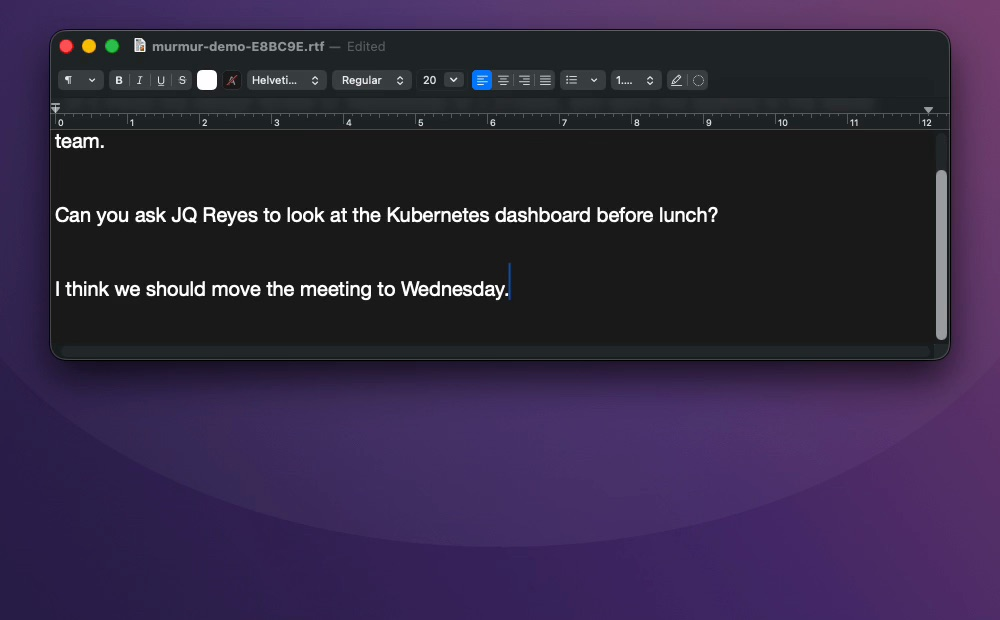
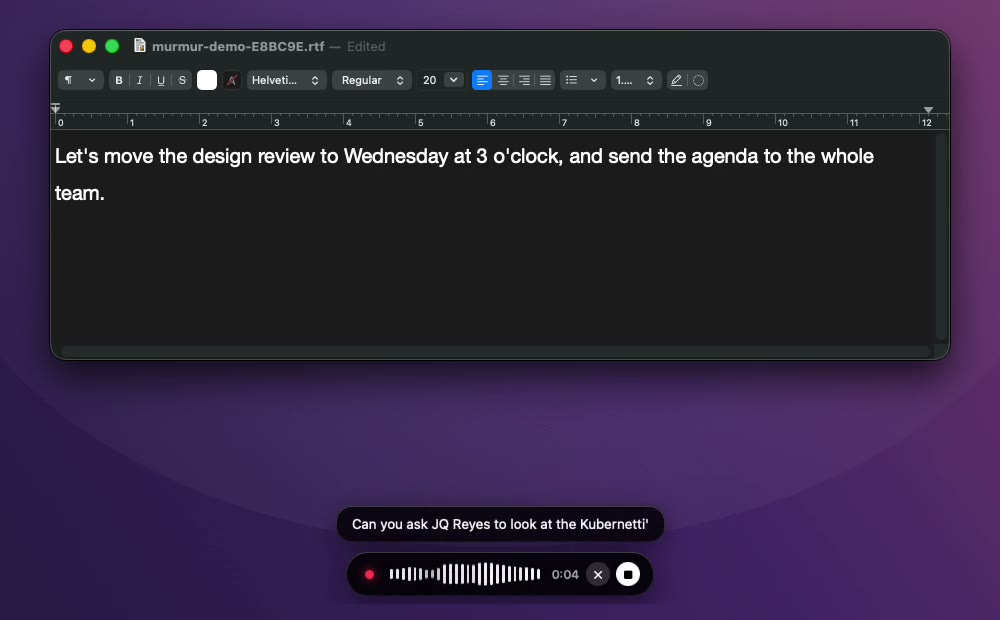
Site: rebalance visual weight, refresh gallery and copy
- Section headings scaled down (36px/700) so the hero leads; one card style
  (shadowed, 18px radius) for features, steps and HUD cards; HUD cards lose
  the dark outline; softer hero stage shadow, slightly smaller icon.
- Poster frame from mid-demo instead of an empty document.
- Gallery: current, mostly light screens (open models, custom prompt,
  hands-free shortcut, vocabulary).
- Copy: Parakeet, Voxtral, the Lab, hands-free shortcut.

diff --git a/docs/index.html b/docs/index.html
@@ -4,7 +4,7 @@
 <meta charset="utf-8">
 <meta name="viewport" content="width=device-width, initial-scale=1">
 <title>Murmur — dictation for macOS</title>
-<meta name="description" content="Hold a key, speak, release. Murmur types polished text wherever your cursor is. Native macOS, on-device or OpenRouter models.">
+<meta name="description" content="Hold a key, speak, release. Murmur types polished text wherever your cursor is. Native macOS with on-device Parakeet, Apple or Voxtral models, or any model via OpenRouter.">
 <meta property="og:title" content="Murmur — dictation for macOS">
 <meta property="og:description" content="Hold a key, speak, release. Polished text appears wherever you type.">
 <meta property="og:image" content="media/demo-poster.jpg">
@@ -39,7 +39,7 @@ nav .links a:hover { color: var(--ink); }
 /* Hero */
 .hero { position: relative; padding: 88px 0 40px; text-align: center; overflow: hidden; }
 .hero::before { content: ""; position: absolute; inset: -40% -10% auto; height: 620px; background: var(--brand); opacity: .14; filter: blur(90px); border-radius: 50%; z-index: -1; }
-.hero .icon { width: 96px; height: 96px; filter: drop-shadow(0 18px 30px rgba(91,76,249,.35)); }
+.hero .icon { width: 84px; height: 84px; filter: drop-shadow(0 14px 24px rgba(91,76,249,.28)); }
 h1 { font-size: clamp(44px, 7vw, 80px); line-height: 1.02; letter-spacing: -.035em; margin: 22px 0 16px; font-weight: 800; }
 h1 .grad { background: var(--brand); -webkit-background-clip: text; background-clip: text; color: transparent; }
 .lede { font-size: clamp(18px, 2.2vw, 22px); color: var(--ink2); max-width: 640px; margin: 0 auto 30px; }
@@ -52,38 +52,38 @@ h1 .grad { background: var(--brand); -webkit-background-clip: text; background-c
 kbd { font: 600 .92em -apple-system, system-ui; padding: 2px 8px; border-radius: 6px; background: var(--card); border: 1px solid var(--line); box-shadow: 0 1px 0 var(--line); }
 
 /* Video */
-.stage { margin: 48px auto 0; max-width: 1000px; border-radius: 18px; overflow: hidden; box-shadow: 0 30px 80px rgba(40,20,110,.35), 0 0 0 1px var(--line); position: relative; background: #1b1530; }
+.stage { margin: 56px auto 0; max-width: 920px; border-radius: 16px; overflow: hidden; box-shadow: 0 24px 64px rgba(40,20,110,.20), 0 0 0 1px var(--line); position: relative; background: #1b1530; }
 .stage video { display: block; width: 100%; height: auto; }
 .sound { position: absolute; right: 14px; bottom: 14px; border: 0; cursor: pointer; padding: 8px 14px; border-radius: 999px; font: 600 13px -apple-system, system-ui;
          color: #fff; background: rgba(0,0,0,.55); backdrop-filter: blur(10px); }
 
 /* Sections */
-section { padding: 96px 0 0; }
+section { padding: 104px 0 0; }
 .eyebrow { font-size: 13px; font-weight: 700; letter-spacing: .08em; text-transform: uppercase; background: var(--brand); -webkit-background-clip: text; background-clip: text; color: transparent; }
-h2 { font-size: clamp(30px, 4vw, 44px); letter-spacing: -.025em; line-height: 1.1; margin: 8px 0 14px; }
-.sub { color: var(--ink2); font-size: 18px; max-width: 660px; margin: 0 0 36px; }
+h2 { font-size: clamp(26px, 3vw, 36px); font-weight: 700; letter-spacing: -.02em; line-height: 1.15; margin: 8px 0 12px; }
+.sub { color: var(--ink2); font-size: 17px; max-width: 640px; margin: 0 0 32px; }
 
 .grid { display: grid; grid-template-columns: repeat(auto-fill, minmax(250px, 1fr)); gap: 16px; }
 .card { background: var(--card); border: 1px solid var(--line); border-radius: 18px; padding: 22px; box-shadow: var(--shadow); }
-.card .ic { width: 38px; height: 38px; border-radius: 10px; display: grid; place-items: center; color: #fff; font-size: 18px; margin-bottom: 14px; }
-.card h3 { margin: 0 0 6px; font-size: 17px; letter-spacing: -.01em; }
-.card p { margin: 0; color: var(--ink2); font-size: 14.5px; }
+.card .ic { width: 36px; height: 36px; border-radius: 10px; display: grid; place-items: center; color: #fff; font-size: 18px; margin-bottom: 14px; }
+.card h3 { margin: 0 0 6px; font-size: 16.5px; font-weight: 650; letter-spacing: -.01em; }
+.card p { margin: 0; color: var(--ink2); font-size: 15px; }
 
 /* Pipeline */
 .pipe { display: flex; align-items: stretch; gap: 10px; flex-wrap: wrap; }
-.step { flex: 1 1 160px; background: var(--card); border: 1px solid var(--line); border-radius: 16px; padding: 18px; position: relative; }
-.step b { display: block; font-size: 15px; margin-bottom: 4px; }
-.step span { color: var(--ink2); font-size: 13.5px; }
-.step .n { font: 700 12px -apple-system, system-ui; color: var(--violet); margin-bottom: 8px; display: block; }
+.step { flex: 1 1 160px; background: var(--card); border: 1px solid var(--line); border-radius: 18px; padding: 20px; position: relative; box-shadow: var(--shadow); }
+.step b { display: block; font-size: 16px; font-weight: 650; margin-bottom: 4px; }
+.step span { color: var(--ink2); font-size: 14.5px; }
+.step .n { font: 700 13px -apple-system, system-ui; color: var(--violet); margin-bottom: 10px; display: block; letter-spacing: .04em; }
 
 /* HUD strip */
 .huds { display: grid; grid-template-columns: repeat(auto-fit, minmax(240px, 1fr)); gap: 14px; }
-.huds figure { margin: 0; border-radius: 16px; overflow: hidden; border: 1px solid var(--line); background: #2a1f45; }
+.huds figure { margin: 0; border-radius: 18px; overflow: hidden; border: 1px solid var(--line); background: var(--card); box-shadow: var(--shadow); }
 .huds img { display: block; width: 100%; height: 150px; object-fit: cover; object-position: center bottom; }
-figcaption { font-size: 13px; color: var(--ink2); padding: 10px 14px; background: var(--card); }
+figcaption { font-size: 14px; color: var(--ink2); padding: 12px 16px; background: var(--card); }
 
 /* Gallery */
-.shots { display: grid; grid-template-columns: repeat(2, 1fr); gap: 22px; }
+.shots { display: grid; grid-template-columns: repeat(2, 1fr); gap: 28px 24px; }
 .shots figure { margin: 0; }
 .shots img { width: 100%; border-radius: 14px; box-shadow: var(--shadow); border: 1px solid var(--line); display: block; }
 .shots figcaption { background: none; padding: 10px 2px 0; }
@@ -138,13 +138,13 @@ footer { padding: 90px 0 50px; color: var(--ink3); font-size: 13px; text-align: 
     <h2>Everything dictation should have been.</h2>
     <p class="sub">A native Mac app with a Rust core, built to be fast, private by default, and pleasant to look at.</p>
     <div class="grid">
-      <div class="card"><div class="ic" style="background:#5b4cf9"><svg width="20" height="20" viewBox="0 0 24 24" fill="none" stroke="currentColor" stroke-width="2" stroke-linecap="round" stroke-linejoin="round"><rect x="2" y="6" width="20" height="12" rx="2"/><path d="M6 10h.01M10 10h.01M14 10h.01M18 10h.01M7 14h10"/></svg></div><h3>One key, anywhere</h3><p>Hold fn, right ⌥ or any custom shortcut to talk. Tap once for hands-free, esc to cancel.</p></div>
-      <div class="card"><div class="ic" style="background:#2f7cf6"><svg width="20" height="20" viewBox="0 0 24 24" fill="none" stroke="currentColor" stroke-width="2" stroke-linecap="round" stroke-linejoin="round"><rect x="4" y="11" width="16" height="10" rx="2"/><path d="M8 11V7a4 4 0 0 1 8 0v4"/></svg></div><h3>On-device by default</h3><p>Apple's SpeechAnalyzer transcribes locally with a live preview, in about a tenth of a second after you let go.</p></div>
-      <div class="card"><div class="ic" style="background:#0ea5a5"><svg width="20" height="20" viewBox="0 0 24 24" fill="none" stroke="currentColor" stroke-width="2" stroke-linecap="round" stroke-linejoin="round"><circle cx="12" cy="12" r="9"/><path d="M3 12h18M12 3a14 14 0 0 1 0 18M12 3a14 14 0 0 0 0 18"/></svg></div><h3>Or any model you like</h3><p>Gemini and other audio models via OpenRouter, or your own Whisper-compatible server.</p></div>
-      <div class="card"><div class="ic" style="background:#b951ed"><svg width="20" height="20" viewBox="0 0 24 24" fill="none" stroke="currentColor" stroke-width="2" stroke-linecap="round" stroke-linejoin="round"><path d="M12 3l1.8 5.2L19 10l-5.2 1.8L12 17l-1.8-5.2L5 10l5.2-1.8z"/><path d="M19 15l.8 2.2L22 18l-2.2.8L19 21l-.8-2.2L16 18l2.2-.8z"/></svg></div><h3>Polish pass</h3><p>An LLM removes ums, applies "no wait, I mean…" corrections and fixes mishearings. Apple Intelligence, OpenRouter, or Ollama.</p></div>
+      <div class="card"><div class="ic" style="background:#5b4cf9"><svg width="20" height="20" viewBox="0 0 24 24" fill="none" stroke="currentColor" stroke-width="2" stroke-linecap="round" stroke-linejoin="round"><rect x="2" y="6" width="20" height="12" rx="2"/><path d="M6 10h.01M10 10h.01M14 10h.01M18 10h.01M7 14h10"/></svg></div><h3>One key, anywhere</h3><p>Hold fn, right ⌥ or any shortcut to talk. A second shortcut for hands-free; esc cancels.</p></div>
+      <div class="card"><div class="ic" style="background:#2f7cf6"><svg width="20" height="20" viewBox="0 0 24 24" fill="none" stroke="currentColor" stroke-width="2" stroke-linecap="round" stroke-linejoin="round"><rect x="4" y="11" width="16" height="10" rx="2"/><path d="M8 11V7a4 4 0 0 1 8 0v4"/></svg></div><h3>On-device by default</h3><p>NVIDIA Parakeet on the Neural Engine, or Apple's speech models. Text about a tenth of a second after you let go.</p></div>
+      <div class="card"><div class="ic" style="background:#0ea5a5"><svg width="20" height="20" viewBox="0 0 24 24" fill="none" stroke="currentColor" stroke-width="2" stroke-linecap="round" stroke-linejoin="round"><circle cx="12" cy="12" r="9"/><path d="M3 12h18M12 3a14 14 0 0 1 0 18M12 3a14 14 0 0 0 0 18"/></svg></div><h3>Or any model you like</h3><p>Mistral's Voxtral via MLX, audio models through OpenRouter, or your own Whisper-compatible server.</p></div>
+      <div class="card"><div class="ic" style="background:#b951ed"><svg width="20" height="20" viewBox="0 0 24 24" fill="none" stroke="currentColor" stroke-width="2" stroke-linecap="round" stroke-linejoin="round"><path d="M12 3l1.8 5.2L19 10l-5.2 1.8L12 17l-1.8-5.2L5 10l5.2-1.8z"/><path d="M19 15l.8 2.2L22 18l-2.2.8L19 21l-.8-2.2L16 18l2.2-.8z"/></svg></div><h3>Polish pass</h3><p>An LLM removes ums, applies "no wait, I mean…" corrections and fixes mishearings. Apple Intelligence, OpenRouter or Ollama, with your own prompt.</p></div>
       <div class="card"><div class="ic" style="background:#f59e0b"><svg width="20" height="20" viewBox="0 0 24 24" fill="none" stroke="currentColor" stroke-width="2" stroke-linecap="round" stroke-linejoin="round"><path d="M4 5a2 2 0 0 1 2-2h12v16H6a2 2 0 0 0-2 2z"/><path d="M4 19V5M8 7h6"/></svg></div><h3>Custom vocabulary</h3><p>Names, jargon and acronyms that steer the recognizer, go into every prompt, and correct known mishearings automatically.</p></div>
       <div class="card"><div class="ic" style="background:#ef4444"><svg width="20" height="20" viewBox="0 0 24 24" fill="none" stroke="currentColor" stroke-width="2" stroke-linecap="round" stroke-linejoin="round"><rect x="9" y="3" width="6" height="11" rx="3"/><path d="M5 11a7 7 0 0 0 14 0M12 18v3"/></svg></div><h3>Every mic, in order</h3><p>Rank your microphones. If one disconnects or goes silent mid-sentence, Murmur switches to the next one.</p></div>
-      <div class="card"><div class="ic" style="background:#14b8a6"><svg width="20" height="20" viewBox="0 0 24 24" fill="none" stroke="currentColor" stroke-width="2" stroke-linecap="round" stroke-linejoin="round"><circle cx="12" cy="12" r="9"/><path d="M12 7v5l3 2"/></svg></div><h3>History you control</h3><p>Keep audio and transcripts for a day, a year or not at all. Replay, copy or re-transcribe any of them.</p></div>
+      <div class="card"><div class="ic" style="background:#14b8a6"><svg width="20" height="20" viewBox="0 0 24 24" fill="none" stroke="currentColor" stroke-width="2" stroke-linecap="round" stroke-linejoin="round"><circle cx="12" cy="12" r="9"/><path d="M12 7v5l3 2"/></svg></div><h3>History and the Lab</h3><p>Keep recordings as long as you like, then replay them through other models and prompts to find your fastest good setup.</p></div>
       <div class="card"><div class="ic" style="background:#64748b"><svg width="20" height="20" viewBox="0 0 24 24" fill="none" stroke="currentColor" stroke-width="2" stroke-linecap="round" stroke-linejoin="round"><path d="M21 8l-9-5-9 5 9 5 9-5z"/><path d="M3 8v8l9 5 9-5V8M12 13v8"/></svg></div><h3>Built for teams</h3><p>Signed DMG and PKG installers, plus an MDM profile that pre-approves Accessibility.</p></div>
     </div>
   </div>
@@ -187,10 +187,10 @@ footer { padding: 90px 0 50px; color: var(--ink3); font-size: 13px; text-align: 
     <div class="shots">
       <figure><img src="media/home-light.png" alt="Home" loading="lazy"><figcaption>Home: your shortcut, stats and recent dictations</figcaption></figure>
       <figure><img src="media/home-dark.png" alt="Home in dark mode" loading="lazy"><figcaption>…and the same in dark mode</figcaption></figure>
-      <figure><img src="media/transcription.png" alt="Transcription settings" loading="lazy"><figcaption>Choose on-device, OpenRouter or your own server</figcaption></figure>
-      <figure><img src="media/cleanup.png" alt="Cleanup settings" loading="lazy"><figcaption>Cleanup with a built-in playground</figcaption></figure>
-      <figure><img src="media/vocabulary.png" alt="Vocabulary" loading="lazy"><figcaption>Vocabulary with "often heard as" variants</figcaption></figure>
-      <figure><img src="media/history.png" alt="History" loading="lazy"><figcaption>History with separate audio and text retention</figcaption></figure>
+      <figure><img src="media/open-models.png" alt="Open models" loading="lazy"><figcaption>Open models, downloaded on demand and run on your Mac</figcaption></figure>
+      <figure><img src="media/custom-prompt.png" alt="Custom cleanup prompt" loading="lazy"><figcaption>Write your own cleanup prompt, with placeholders</figcaption></figure>
+      <figure><img src="media/shortcut.png" alt="Shortcut settings" loading="lazy"><figcaption>Push-to-talk plus a hands-free shortcut</figcaption></figure>
+      <figure><img src="media/vocabulary-light.png" alt="Vocabulary" loading="lazy"><figcaption>Vocabulary with "often heard as" variants</figcaption></figure>
     </div>
   </div>
 </section>
@@ -203,7 +203,7 @@ footer { padding: 90px 0 50px; color: var(--ink3); font-size: 13px; text-align: 
       <p class="sub">With the default settings, nothing leaves your Mac. Remote models are opt-in, and you choose exactly which ones.</p>
     </div>
     <ul>
-      <li><b>On-device transcription</b> with Apple's speech models</li>
+      <li><b>On-device transcription</b> with Parakeet or Apple's speech models</li>
       <li><b>On-device cleanup</b> with Apple Intelligence</li>
       <li><b>API keys in the Keychain</b>, never in files</li>
       <li><b>Retention you set</b>, separately for audio and text</li>
